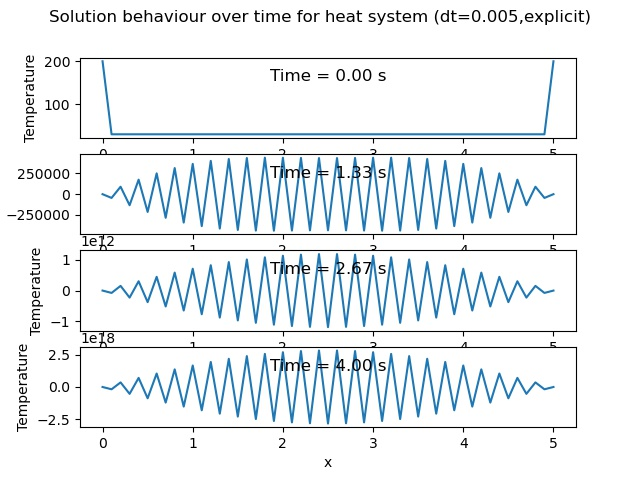
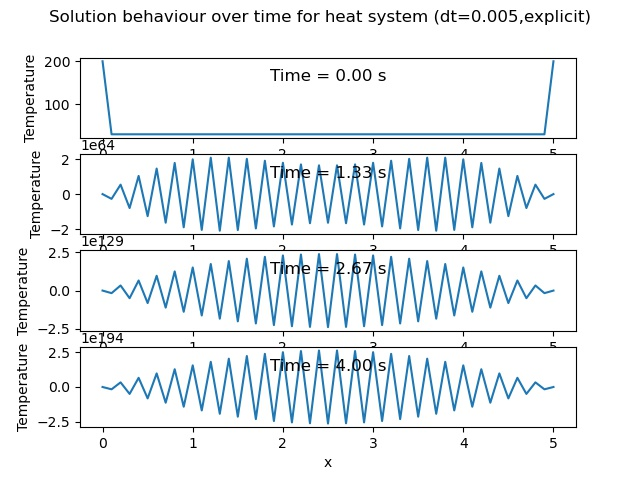
Updated images

diff --git a/331Lab5_FD/Lab_W1/task2_fd.py b/331Lab5_FD/Lab_W1/task2_fd.py
@@ -13,7 +13,7 @@ dx = 0.1
 dt = 0.001
 dt2 = 0.005
 
-alpha = 1
+alpha = 1.5
 theta = 0.5
 
 solver3 = SolverHeatXT(xlim, tlim, dx, dt, alpha, theta, bc_x0, bc_x1, ic_t0)
@@ -29,3 +29,36 @@ solver3.plot_solution(save_to_file=True, save_file_name="dt=0.001,implicit")
 
 solver4.solve_implicit()
 solver4.plot_solution(save_to_file=True, save_file_name="dt=0.005,implicit")
+
+
+# Part 3 - Solve 3 rods
+# Use implicit, dt=0.005
+
+# Silver rod
+alpha = 1.5
+silver = SolverHeatXT(xlim, tlim, dx, dt2, alpha, theta, bc_x0, bc_x1, ic_t0)
+silver.solve_implicit()
+if np.all(silver.solution[:, -1] >= 170):
+    print("The silver all reaches a temperature of at least 170 degrees in 4 seconds")
+else:
+    print("the silver does not")
+
+# Copper rod
+alpha = 1.25
+copper = SolverHeatXT(xlim, tlim, dx, dt2, alpha, theta, bc_x0, bc_x1, ic_t0)
+copper.solve_implicit()
+if np.all(copper.solution[:, -1] >= 170):
+    print("The copper all reaches a temperature of at least 170 degrees in 4 seconds")
+else:
+    print("the copper does not")
+
+# Aluminium rod
+alpha = 1
+aluminium = SolverHeatXT(xlim, tlim, dx, dt2, alpha, theta, bc_x0, bc_x1, ic_t0)
+aluminium.solve_implicit()
+if np.all(aluminium.solution[:, -1] >= 170):
+    print("The aluminium all reaches a temperature of at least 170 degrees in 4 seconds")
+else:
+    print("the aluminium does not")
+
+
